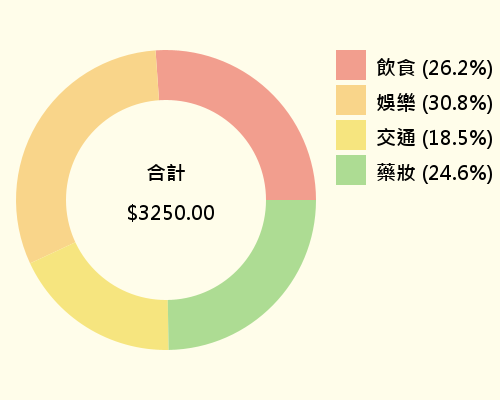
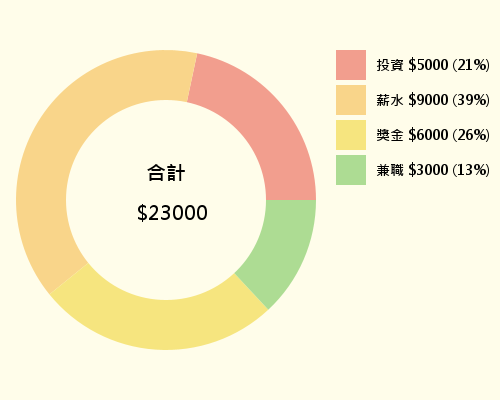
[feat] modify line bot command for ++

diff --git a/AccountBot/src/main/java/com/example/accountbot/MessageHandler.java b/AccountBot/src/main/java/com/example/accountbot/MessageHandler.java
@@ -70,12 +70,15 @@ public class MessageHandler {
 
         try {
 
-            // 如果用戶輸入以 "$$" 開頭
-            if (receivedText != null && receivedText.matches("^\\$\\$.*")) {
+            // 如果用戶輸入以 "$$" 或 "++" 開頭
+            if (receivedText != null && (receivedText.startsWith("$$") || receivedText.startsWith("++"))) {
+
+                // 根據開頭決定第一個參數的值
+                int type = receivedText.startsWith("++") ? 0 : 1;
 
                 String outputFilePath = "src/main/resources/static/images/pieChart.png";
                 // 生成圓餅圖
-                String imagePath = chartGenerateService.generatePieChart(1, "month", outputFilePath, userId);
+                String imagePath = chartGenerateService.generatePieChart(type, "month", outputFilePath, userId);
 
                 if (imagePath != null) {
                     log.info("圖片生成並儲存成功，路徑為: " + imagePath);
@@ -83,73 +86,76 @@ public class MessageHandler {
                     log.info("圖片生成失敗");
                 }
 
-                String flexMessageJson = """
-            {
-                                  "type": "bubble",
-                                  "size": "giga",
-                                  "hero": {
-                                    "type": "image",
-                                    "url": "%s",
-                                    "size": "full",
-                                    "aspectRatio": "20:13",
-                                    "aspectMode": "cover",
-                                    "action": {
-                                      "type": "uri",
-                                      "uri": "%s.png"
-                                    }
-                                  },
-                                  "footer": {
-                                    "type": "box",
-                                    "layout": "horizontal",
-                                    "contents": [
-                                      {
-                                        "type": "button",
-                                        "action": {
-                                          "type": "postback",
-                                          "label": "昨日",
-                                          "data": "昨日",
-                                          "displayText": "$$:昨日"
-                                        }
-                                      },
-                                      {
-                                        "type": "button",
-                                        "action": {
-                                          "type": "postback",
-                                          "label": "本週",
-                                          "data": "本週",
-                                          "displayText": "$$:本週"
-                                        }
-                                      },
-                                      {
-                                        "type": "button",
-                                        "action": {
-                                          "type": "postback",
-                                          "label": "本月",
-                                          "data": "本月",
-                                          "displayText": "$$:本月"
-                                        }
-                                      },
-                                      {
-                                        "type": "button",
-                                        "action": {
-                                          "type": "postback",
-                                          "label": "半年",
-                                          "data": "半年",
-                                          "displayText": "$$:半年"
-                                        }
-                                      },
-                                      {
-                                        "type": "button",
-                                        "action": {
-                                          "type": "uri",
-                                          "label": "more",
-                                          "uri": "https://jacktest.site/dashboard.html"
-                                        }
-                                      }
-                                    ]
-                                  }
-                                }
-        """;
+                // 根據開頭動態設置 displayText
+                String displayTextPrefix = receivedText.startsWith("++") ? "++" : "$$";
+
+                String flexMessageJson = String.format("""
+        {
+            "type": "bubble",
+            "size": "giga",
+            "hero": {
+                "type": "image",
+                "url": "%s",
+                "size": "full",
+                "aspectRatio": "20:13",
+                "aspectMode": "cover",
+                "action": {
+                    "type": "uri",
+                    "uri": "%s.png"
+                }
+            },
+            "footer": {
+                "type": "box",
+                "layout": "horizontal",
+                "contents": [
+                    {
+                        "type": "button",
+                        "action": {
+                            "type": "postback",
+                            "label": "昨日",
+                            "data": "昨日",
+                            "displayText": "%s:昨日"
+                        }
+                    },
+                    {
+                        "type": "button",
+                        "action": {
+                            "type": "postback",
+                            "label": "本週",
+                            "data": "本週",
+                            "displayText": "%s:本週"
+                        }
+                    },
+                    {
+                        "type": "button",
+                        "action": {
+                            "type": "postback",
+                            "label": "本月",
+                            "data": "本月",
+                            "displayText": "%s:本月"
+                        }
+                    },
+                    {
+                        "type": "button",
+                        "action": {
+                            "type": "postback",
+                            "label": "半年",
+                            "data": "半年",
+                            "displayText": "%s:半年"
+                        }
+                    },
+                    {
+                        "type": "button",
+                        "action": {
+                            "type": "uri",
+                            "label": "more",
+                            "uri": "https://jacktest.site/dashboard.html"
+                        }
+                    }
+                ]
+            }
+        }
+    """, "%s", "%s", displayTextPrefix, displayTextPrefix, displayTextPrefix, displayTextPrefix);
 
                 JSONObject flexMessageJsonObject = new JSONObject(flexMessageJson);
 
@@ -166,18 +172,14 @@ public class MessageHandler {
                 String updatedFlexMessageJson = flexMessageJsonObject.toString();
 
                 try {
-
                     FlexContainer flexContainer = objectMapper.readValue(updatedFlexMessageJson, FlexContainer.class);
-
                     FlexMessage flexMessage = new FlexMessage("圖表分析", flexContainer);
-
                     lineMessagingClient.pushMessage(new PushMessage(userId, flexMessage)).get();
-
                 } catch (JsonProcessingException | InterruptedException | ExecutionException e) {
                     e.printStackTrace();
                 }
-
             }
+
             // 如果用戶輸入以 "$" 開頭
             else if (receivedText != null && receivedText.matches("\\$.*")) {
 
@@ -245,9 +247,8 @@ public class MessageHandler {
                     e.printStackTrace();
                 }
             }
-
             // 如果用戶輸入以 "+" 開頭
-            if (receivedText != null && receivedText.matches("\\+.*")) {
+            else if (receivedText != null && receivedText.matches("\\+.*")) {
 
                 String flexMessageJson = """
                             {

diff --git a/AccountBot/src/main/java/com/example/accountbot/service/Impl/ChartGenerateServiceImpl.java b/AccountBot/src/main/java/com/example/accountbot/service/Impl/ChartGenerateServiceImpl.java
@@ -13,7 +13,6 @@ import java.awt.image.BufferedImage;
 import java.io.File;
 import java.io.IOException;
 import java.util.Map;
-import java.util.Random;
 import java.util.List;
 
 @Service
@@ -182,18 +181,13 @@ public class ChartGenerateServiceImpl implements ChartGenerateService {
                 total += value;
             }
 
-            // 畫圖開始角度
+            // 繪製圓環
             int startAngle = 0;
 
             for (int i = 0; i < values.length; i++) {
                 int angle = (int) Math.round((values[i] / total) * 360);
-
-                // 設置顏色
                 g2d.setColor(colors[i % colors.length]);
-                // 繪製圓環外圈部分
                 g2d.fillArc(centerX - outerRadius, centerY - outerRadius, outerRadius * 2, outerRadius * 2, startAngle, angle);
-
-                // 更新開始角度
                 startAngle += angle;
             }
 
@@ -201,25 +195,29 @@ public class ChartGenerateServiceImpl implements ChartGenerateService {
             g2d.setColor(new Color(255, 253, 234));
             g2d.fillOval(centerX - innerRadius, centerY - innerRadius, innerRadius * 2, innerRadius * 2);
 
-            // 繪製分類標籤
-            int legendX = centerX + outerRadius + 20; // 標籤的起始X坐標
-            int legendY = centerY - outerRadius; // 標籤的起始Y坐標
-            int legendSpacing = 35; // 調整標籤間距
-            int squareSize = 30; // 增加顏色方塊大小
+            // 繪製分類標籤，包括金額
+            int legendX = centerX + outerRadius + 20;
+            int legendY = centerY - outerRadius;
+            int legendSpacing = 35;
+            int squareSize = 30;
+
+            g2d.setFont(new Font("Microsoft JhengHei", Font.BOLD, 14));
 
             for (int i = 0; i < values.length; i++) {
                 g2d.setColor(colors[i % colors.length]);
-                g2d.fillRect(legendX, legendY + i * legendSpacing, squareSize, squareSize); // 繪製顏色方塊
+                g2d.fillRect(legendX, legendY + i * legendSpacing, squareSize, squareSize);
                 g2d.setColor(Color.BLACK);
-                g2d.setFont(new Font("Microsoft JhengHei", Font.BOLD, 20)); // 增加字體大小
-                g2d.drawString(labels[i] + " (" + String.format("%.1f%%", (values[i] / total) * 100) + ")", legendX + squareSize + 10, legendY + i * legendSpacing + squareSize / 2 + 10);
+
+                String amount = values[i] > 0 ? "$" + (int) values[i] : "$0";
+                g2d.drawString(labels[i] + " " + amount + " (" + (int) (values[i] / total * 100) + "%)",
+                        legendX + squareSize + 10, legendY + i * legendSpacing + squareSize / 2 + 5);
             }
 
             // 繪製合計文字
             g2d.setColor(Color.BLACK);
             g2d.setFont(new Font("Microsoft JhengHei", Font.BOLD, 20));
             g2d.drawString("合計", centerX - 20, centerY - 20);
-            g2d.drawString("$" + String.format("%.2f", total), centerX - 40, centerY + 20);
+            g2d.drawString("$" + (int) total, centerX - 30, centerY + 20);
 
             // 釋放圖形資源
             g2d.dispose();
